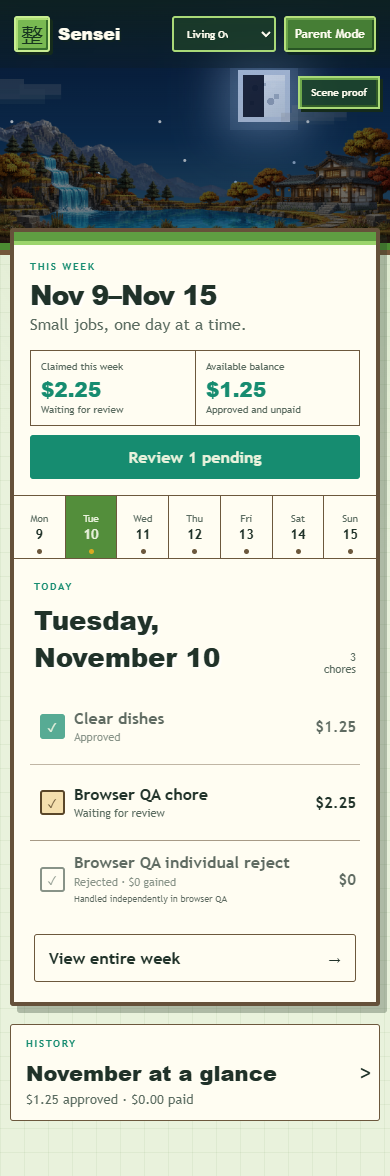
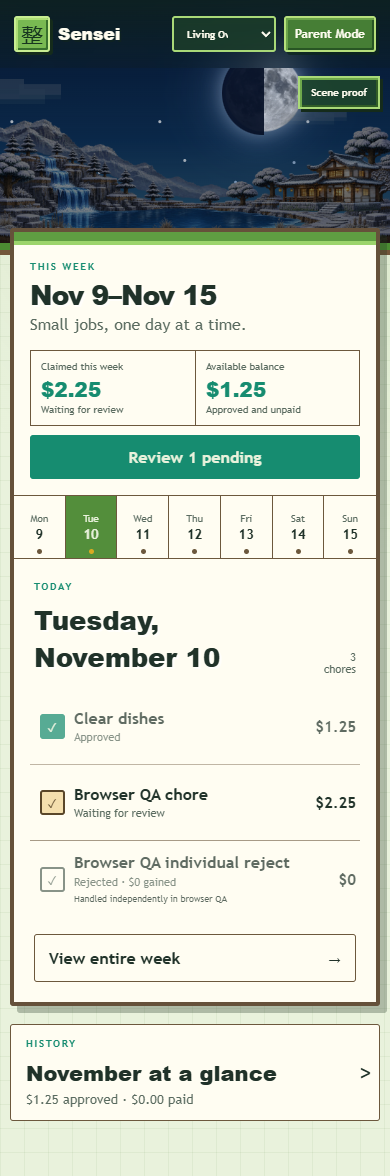
feat: replace Living Overworld moon with detailed round asset

Changed region(s): [[0.0, 0.0306, 1.0, 0.2143]]

diff --git a/src/client/styles.css b/src/client/styles.css
@@ -665,27 +665,20 @@ html[data-theme="living-overworld"] .weeksheet-heading {
 .light-morning .living-overworld-sun { top: 24%; left: 48%; background: #fff0b5; border-color: #ffc86b; }
 .light-evening .living-overworld-sun { top: 27%; left: 70%; background: #ffd18a; border-color: #f49a4f; }
 .living-overworld-moon {
-  display: none; position: absolute; z-index: 1; top: 14%; left: 61%; width: clamp(64px, 6.9vw, 98px); aspect-ratio: 1;
-  overflow: hidden; border: 7px solid #bfd0ea; background:
-    radial-gradient(circle at 29% 31%, #aabbd3 0 7%, transparent 8%),
-    radial-gradient(circle at 66% 63%, #9cadc8 0 9%, transparent 10%),
-    radial-gradient(circle at 72% 24%, #dfe8f6 0 5%, transparent 6%),
-    linear-gradient(135deg, #eef4ff, #c8d7ec);
-  box-shadow: 0 0 0 8px rgba(172,204,244,.12), 0 0 42px 18px rgba(179,210,247,.38), inset 6px 6px rgba(255,255,255,.22);
+  display: none; position: absolute; z-index: 1; top: 22%; left: 58%; width: clamp(104px, 10vw, 148px); aspect-ratio: 1;
+  overflow: hidden; border-radius: 50%;
+  filter: drop-shadow(0 0 9px rgba(218,232,255,.52)) drop-shadow(0 0 25px rgba(162,199,244,.38));
 }
-.living-overworld-moon i { position: absolute; z-index: 1; width: 9%; aspect-ratio: 1; background: #879bb8; opacity: .58; }
-.living-overworld-moon i:nth-child(1) { left: 18%; top: 61%; }
-.living-overworld-moon i:nth-child(2) { left: 49%; top: 19%; width: 6%; }
-.living-overworld-moon i:nth-child(3) { right: 14%; top: 45%; width: 12%; }
-.living-overworld-moon::after { content: ""; position: absolute; z-index: 2; top: 0; bottom: 0; background: rgba(4,16,42,.88); }
-.phase-new::after { left: 0; width: 100%; }
-.phase-waxing-crescent::after { left: 0; width: 76%; }
-.phase-first-quarter::after { left: 0; width: 50%; }
-.phase-waxing-gibbous::after { left: 0; width: 24%; }
+.living-overworld-moon img { display: block; width: 100%; height: 100%; object-fit: contain; }
+.living-overworld-moon::after { content: ""; position: absolute; z-index: 2; top: 0; bottom: 0; background: rgba(4,16,42,.91); }
+.phase-new::after { inset: 0; border-radius: 50%; }
+.phase-waxing-crescent::after { left: -9%; width: 82%; border-radius: 50%; }
+.phase-first-quarter::after { left: 0; width: 50%; border-radius: 50% 0 0 50%; }
+.phase-waxing-gibbous::after { left: -18%; width: 43%; border-radius: 50%; }
 .phase-full::after { display: none; }
-.phase-waning-gibbous::after { right: 0; width: 24%; }
-.phase-last-quarter::after { right: 0; width: 50%; }
-.phase-waning-crescent::after { right: 0; width: 76%; }
+.phase-waning-gibbous::after { right: -18%; width: 43%; border-radius: 50%; }
+.phase-last-quarter::after { right: 0; width: 50%; border-radius: 0 50% 50% 0; }
+.phase-waning-crescent::after { right: -9%; width: 82%; border-radius: 50%; }
 .light-night .living-overworld-sun { display: none; }
 .light-night .living-overworld-moon { display: block; }
 .light-morning .living-overworld-sky {
@@ -810,7 +803,8 @@ html[data-theme="living-overworld"] .weeksheet-heading {
   html[data-theme="living-overworld"] .topbar { margin-bottom: -68px; }
   html[data-theme="living-overworld"] main { margin-top: -22px; padding-top: 0; }
   .living-overworld-banner { height: 250px; }
-  .living-overworld-sun, .living-overworld-moon { top: 29%; left: 61%; width: 52px; border-width: 5px; }
+  .living-overworld-sun { top: 29%; left: 61%; width: 52px; border-width: 5px; }
+  .living-overworld-moon { top: 30%; left: 57%; width: 84px; }
   .light-morning .living-overworld-sun { top: 36%; left: 45%; }
   .light-evening .living-overworld-sun { top: 38%; left: 72%; }
   .living-overworld-cloud { transform: scale(.58); transform-origin: left top; }

diff --git a/scripts/browser-smoke.ts b/scripts/browser-smoke.ts
@@ -470,11 +470,15 @@ try {
   const livingNight = await livingBanner.evaluate((banner) => ({
     sun: getComputedStyle(banner.querySelector('.living-overworld-sun')!).display,
     moon: getComputedStyle(banner.querySelector('.living-overworld-moon')!).display,
+    moonWidth: banner.querySelector('.living-overworld-moon')!.getBoundingClientRect().width,
+    moonRadius: getComputedStyle(banner.querySelector('.living-overworld-moon')!).borderRadius,
+    moonAssetWidth: (banner.querySelector('.living-overworld-moon img') as HTMLImageElement).naturalWidth,
     glow: Number(getComputedStyle(banner.querySelector('.living-overworld-window-glow')!).opacity),
     smoke: getComputedStyle(banner.querySelector('.living-overworld-smoke')!).display,
     smokeAnimation: getComputedStyle(banner.querySelector('.living-overworld-smoke i')!).animationName
   }));
-  if (livingNight.sun !== 'none' || livingNight.moon === 'none' || livingNight.glow < .9
+  if (livingNight.sun !== 'none' || livingNight.moon === 'none' || livingNight.moonWidth < 100
+    || livingNight.moonRadius !== '50%' || livingNight.moonAssetWidth !== 768 || livingNight.glow < .9
     || livingNight.smoke === 'none' || !livingNight.smokeAnimation.includes('living-chimney-smoke')
     || !(await livingBanner.getAttribute('class'))?.includes('moon-full')) {
     throw new Error(`Living Overworld night proof is invalid: ${JSON.stringify(livingNight)}`);

diff --git a/src/client/LivingOverworldScene.tsx b/src/client/LivingOverworldScene.tsx
@@ -179,7 +179,9 @@ export function LivingOverworldScene() {
     <div className="living-overworld-scene" aria-hidden="true">
       <div className="living-overworld-sky" />
       <div className="living-overworld-sun" />
-      <div className={`living-overworld-moon phase-${moonPhase}`}><i /><i /><i /></div>
+      <div className={`living-overworld-moon phase-${moonPhase}`}>
+        <img src={`${assetRoot}/moon-detailed.png`} alt="" />
+      </div>
       <div className="living-overworld-cloud cloud-a"><i /><i /><i /></div>
       <div className="living-overworld-cloud cloud-b"><i /><i /><i /></div>
       <div className="living-overworld-world">

diff --git a/public/assets/living-overworld/README.md b/public/assets/living-overworld/README.md
@@ -10,10 +10,11 @@ All raster assets use the same 2172 × 724 scene coordinates:
 - `water.png`: transparent connected waterfall and lake layer.
 - `retreat.png`: transparent East Asian retreat and foundation layer.
 - `foreground-vegetation.png`: transparent reeds, flowers, and grass tufts.
+- `moon-detailed.png`: transparent 768 × 768 detailed round full-moon source used beneath the deterministic phase shadow.
 
 The browser supplies the sky, square sun, clouds, daylight, rain, and restrained motion with theme-scoped CSS. The original scene and every extracted layer were generated with the built-in OpenAI image-generation tool from one approved composition master. No third-party game artwork is included.
 
-Milestone 1B adds a CSS-rendered phased square moon, night lighting, aligned warm-window glow, and restrained chimney smoke. The isolated winter/night direction proof is stored at `docs/assets/screenshots/living-overworld-1b-winter-night-proof.png` and remains a reference rather than a runtime asset.
+Milestone 1B adds deterministic lunar phases, night lighting, aligned warm-window glow, and restrained chimney smoke. The original CSS square moon was subsequently replaced by a larger detailed circular moon asset while retaining the same eight calculated phases. The isolated winter/night direction proof is stored at `docs/assets/screenshots/living-overworld-1b-winter-night-proof.png` and remains a reference rather than a runtime asset.
 
 The seasons milestone adds coordinate-matched runtime variants beneath `seasons/`:
 

diff --git a/public/assets/living-overworld/GENERATION.md b/public/assets/living-overworld/GENERATION.md
@@ -34,3 +34,7 @@ The runtime spring, autumn, and winter layers were created with the built-in Ope
 - Winter retreat: snow on roof tiles, railings, steps, and foundation ledges with the original building coordinates and warm windows retained.
 
 The generated outputs were copied into the project without altering or deleting their tool-produced originals. System.Drawing verification confirmed every production variant is 2172 × 724 with `Format32bppArgb` transparency.
+
+## Detailed round moon
+
+`moon-detailed.png` was generated with the built-in OpenAI image-generation tool as a centered isolated full moon with a genuinely transparent background. The prompt requested a perfectly round silhouette, detailed craters, maria, ridges, cool silver-gray material, transparent padding for CSS glow, and readability at 100–150 CSS pixels. It explicitly excluded square or Minecraft styling, baked phase shadows, sky, stars, clouds, text, and watermarks. The 1254 × 1254 output was downscaled with high-quality bicubic interpolation to a production-sized 768 × 768 32-bit RGBA PNG. CSS supplies the glow and eight deterministic phase shadows.
